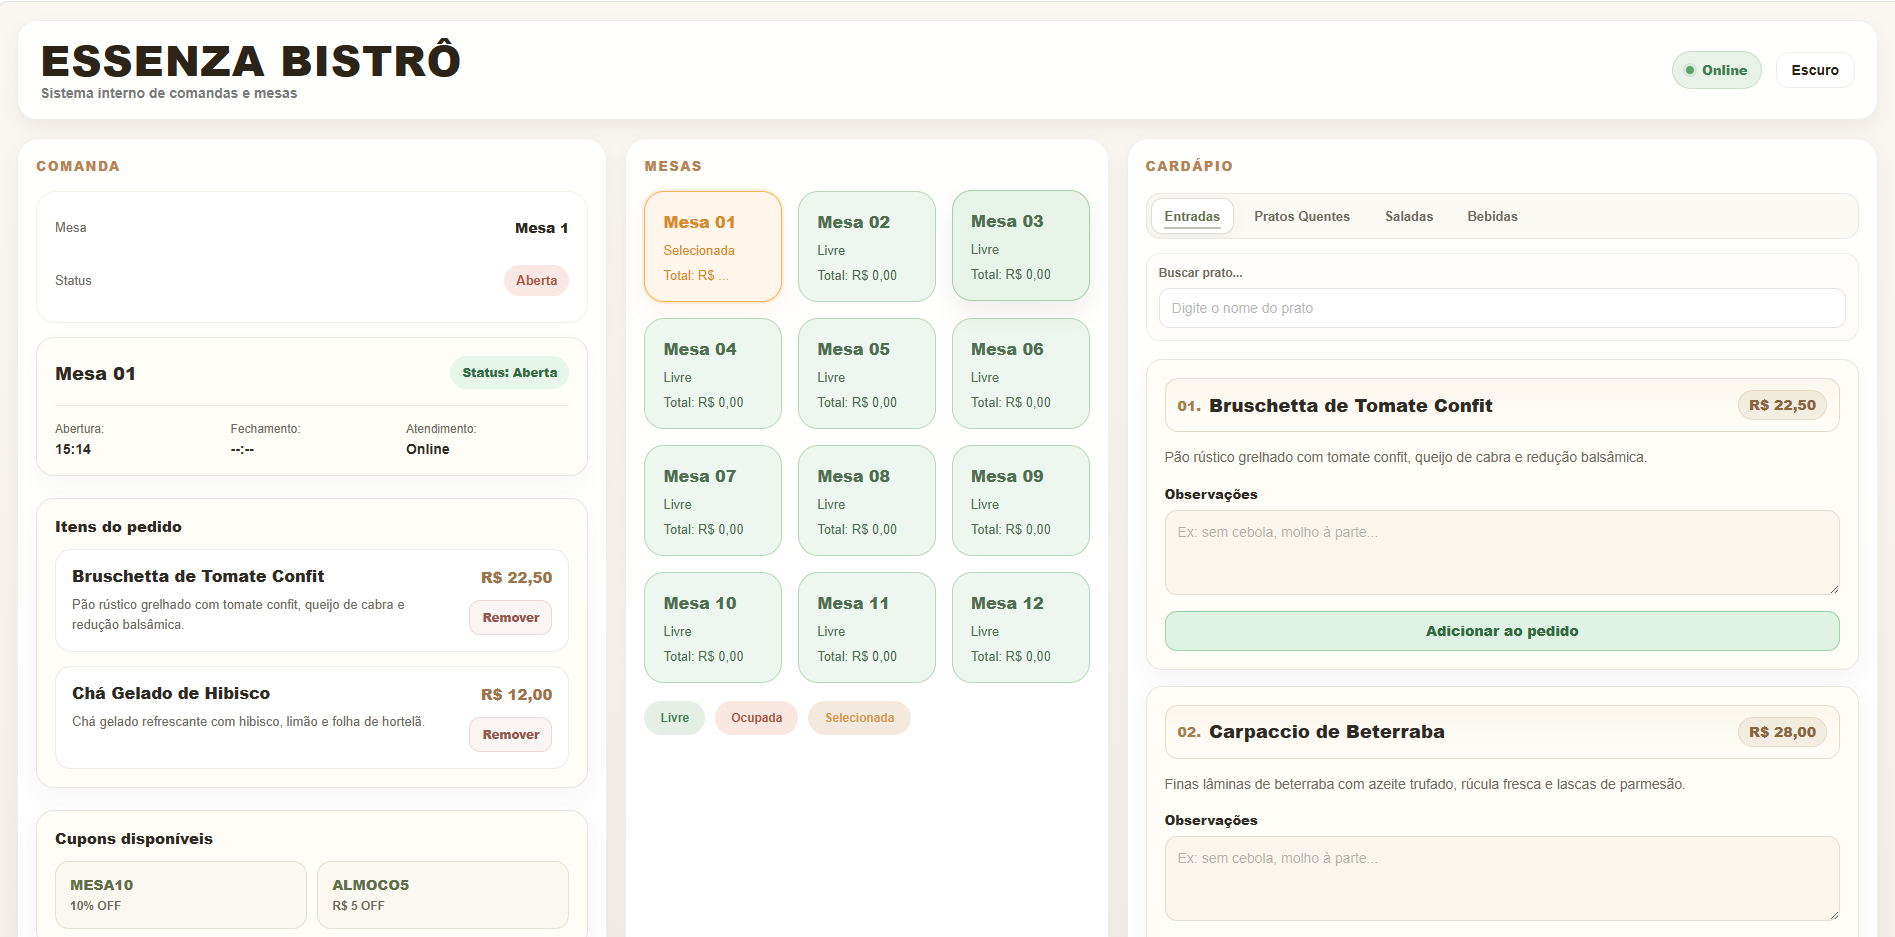
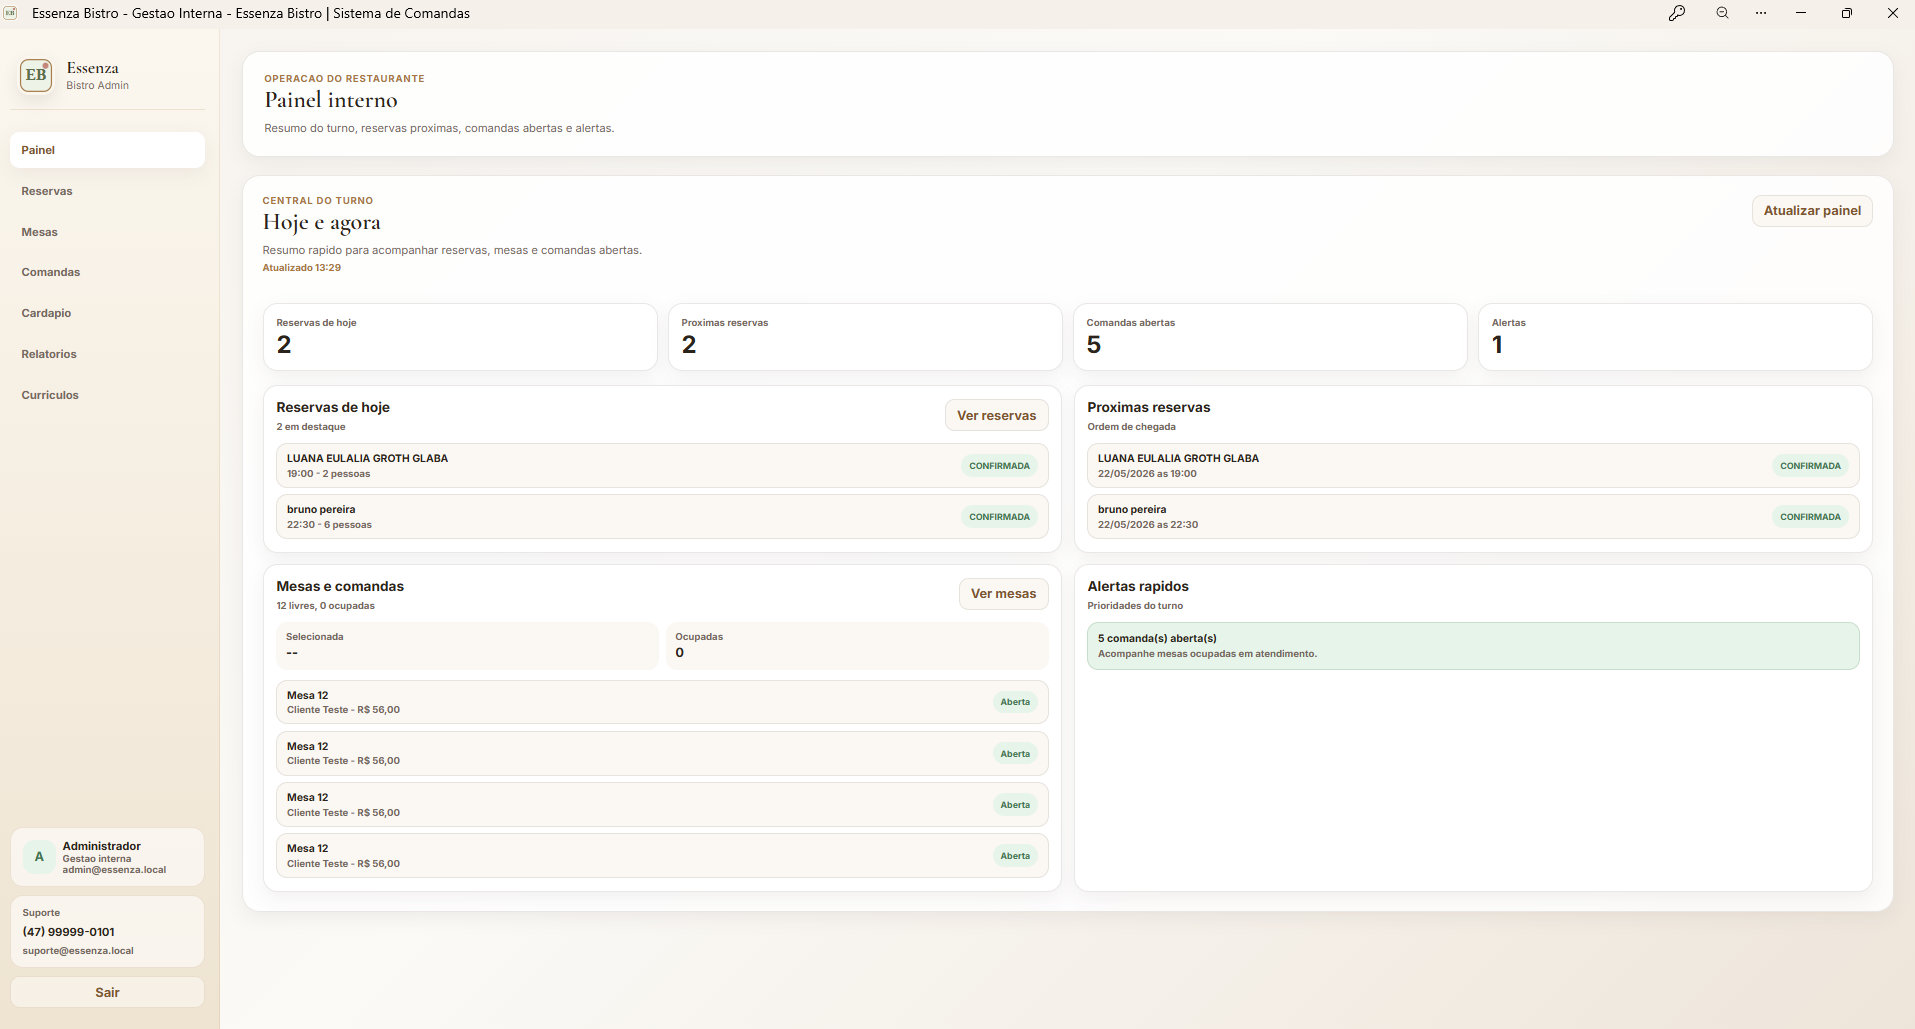
docs: README final com screenshots atualizados do sistema

diff --git a/README.md b/README.md
@@ -55,7 +55,7 @@ Essas entradas sao enviadas para o backend e aparecem automaticamente no sistema
 ### Sistema interno
 
 1. Login administrativo  
-![Login interno](./screenshots/login-interno.png)
+![Login interno](./screenshots/Login-interno.png)
 
 2. Painel geral  
 ![Painel interno](./screenshots/dashboard.png)
@@ -219,6 +219,6 @@ npm run test:e2e
 
 ## Contato
 
-- GitHub: `https://github.com/Luanagroth`
-- LinkedIn: `https://www.linkedin.com/in/luanagroth`
-- E-mail: `luanaeulalia56@gmail.com`
+- GitHub: [github.com/Luanagroth](https://github.com/Luanagroth)
+- LinkedIn: [linkedin.com/in/luanagroth](https://www.linkedin.com/in/luanagroth)
+- E-mail: [luanaeulalia56@gmail.com](mailto:luanaeulalia56@gmail.com)
